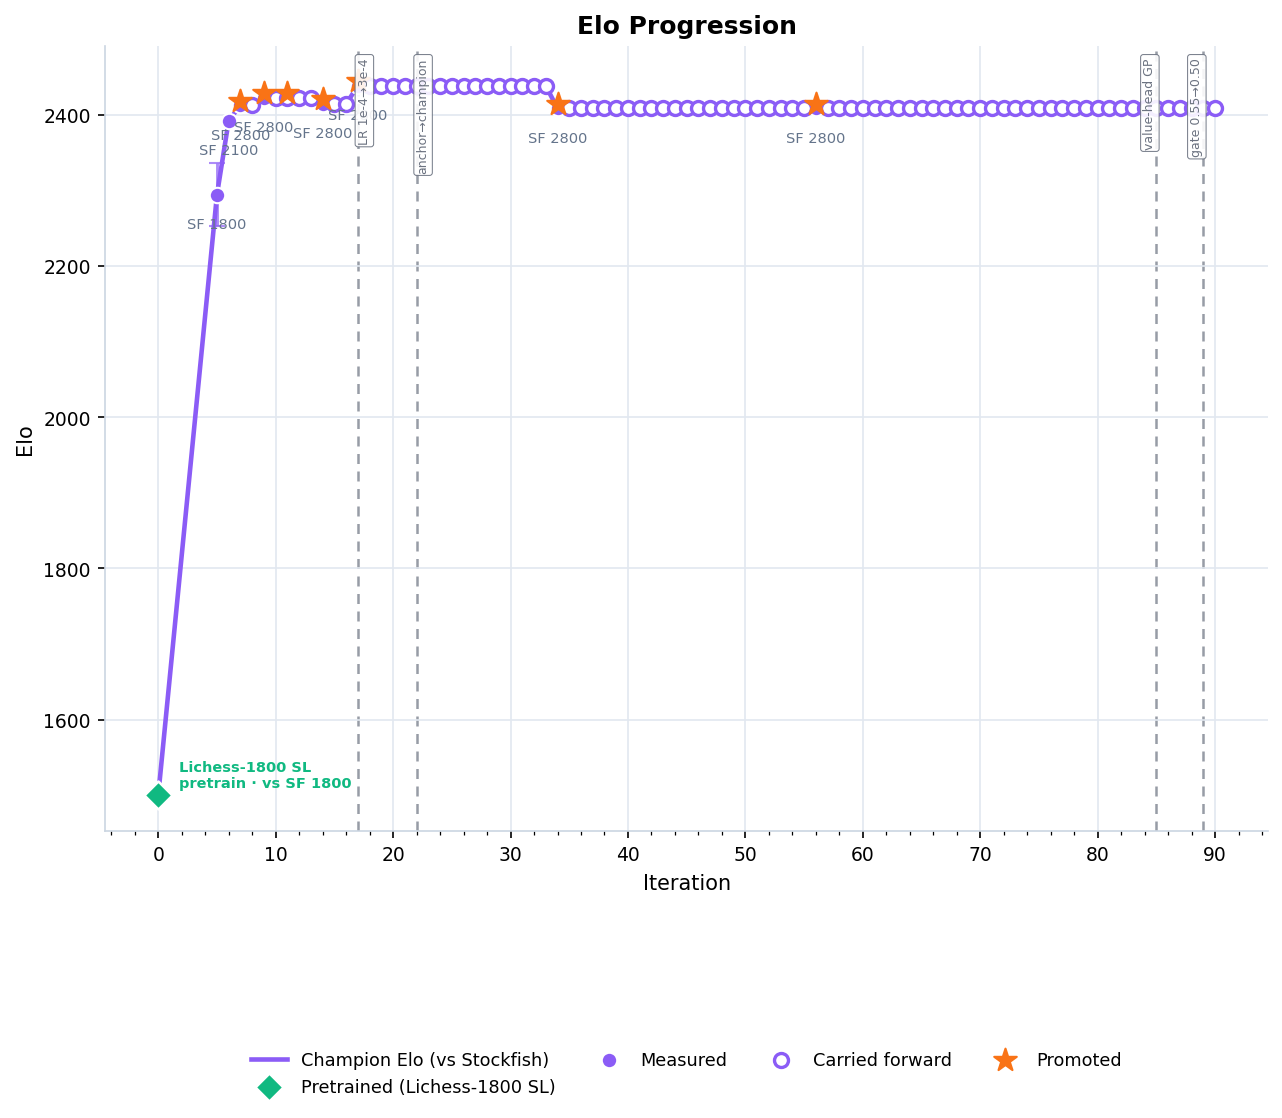
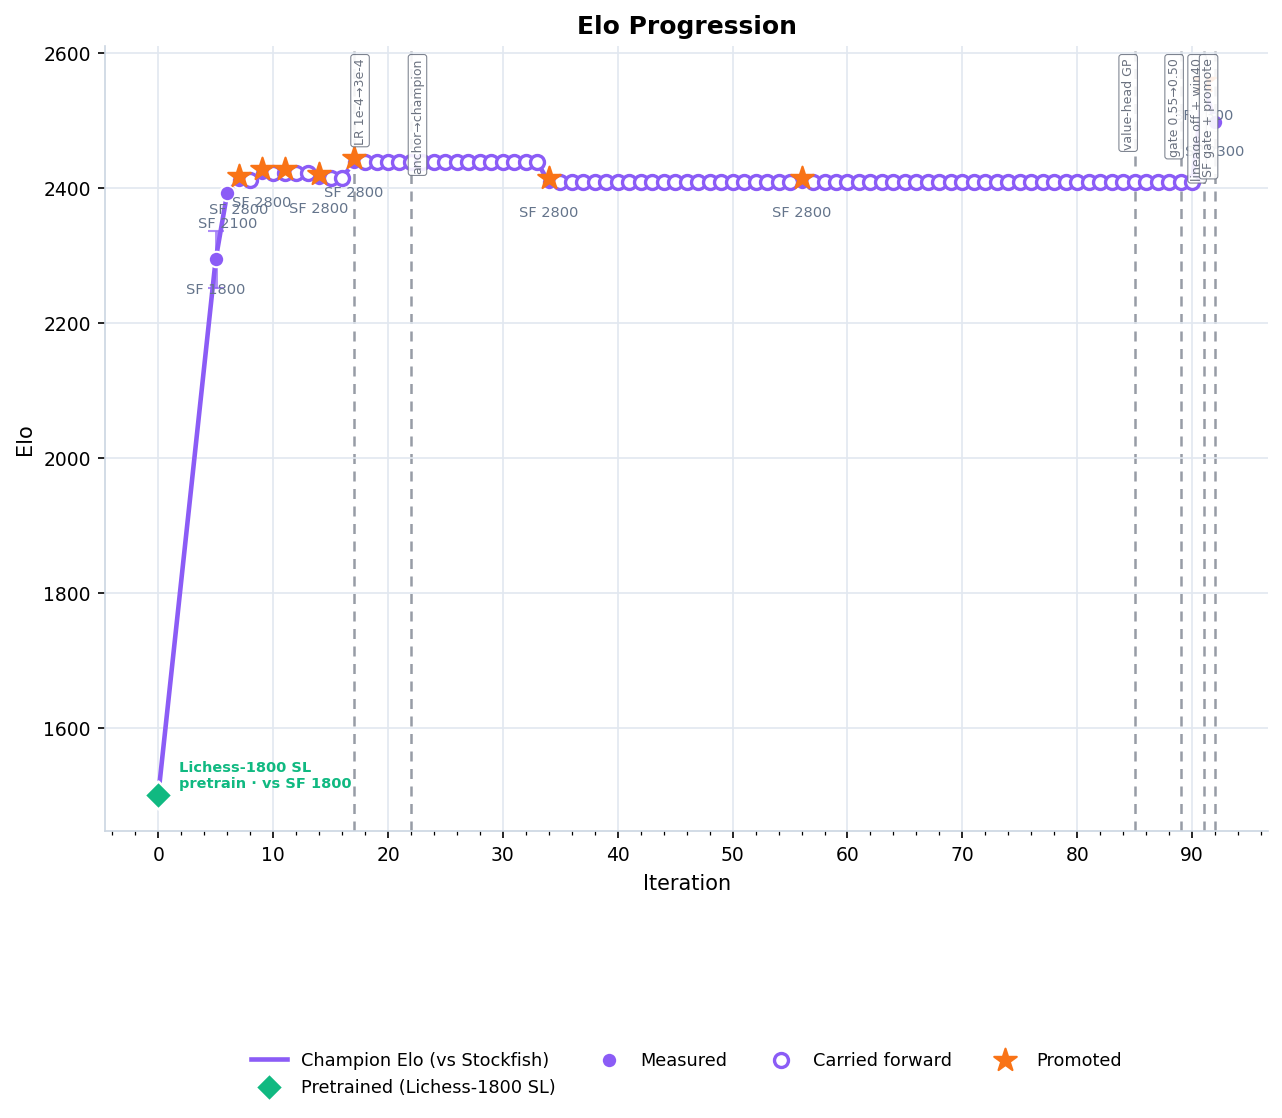
Plots update

diff --git a/chess_ai/plot_metrics.py b/chess_ai/plot_metrics.py
@@ -12,7 +12,10 @@ KataGo / RLHF literature:
     constraint plot; here it shows the policy staying pinned to the pretrained prior.
   * The MCTS-vs-net search metrics (top1-agree / override / KL / Δentropy) form the
     AlphaZero "policy improvement from search" panel.
-  * A reward–KL frontier (arena win-rate vs anchor KL) — the classic RLHF tradeoff.
+
+The arena is no longer a gate (the Stockfish-anchored promotion gate replaced it — see
+main.py STOCKFISH_GATE), so arena win-rate / reward-KL panels were removed: Elo vs Stockfish
+is the sole progress metric, alongside the training and offline-probe panels.
 
 Outputs a master dashboard.png plus standalone high-DPI transparent panels.
 Run from chess_ai/ (paths resolve relative to this file regardless of cwd):
@@ -31,7 +34,6 @@ matplotlib.use("Agg")
 import matplotlib.pyplot as plt
 from matplotlib.gridspec import GridSpec
 from matplotlib.ticker import MultipleLocator
-from mpl_toolkits.axes_grid1.inset_locator import inset_axes
 
 # Paths anchored to this file so it works from repo root or chess_ai/.
 HERE = os.path.dirname(os.path.abspath(__file__))
@@ -53,7 +55,6 @@ def gate_for(iteration):
     return g
 
 
-PROMOTION_GATE = GATE_HISTORY[-1][1]  # latest gate — for reference lines on scatter panels
 DPI = 150
 # Supervised-pretrained base = iteration 0. Trained on Lichess human games (~1800),
 # measured ~1500 Elo vs Stockfish-1800 before any self-play. Loss values are read
@@ -190,7 +191,6 @@ def parse(history):
         "val_acc": col(history, "val_acc"),
         "kl_anchor": col(history, "kl_anchor"),
         "grad_norm": col(history, "grad_norm"),
-        "win_rate": col(history, "arena_win_rate"),
         "elo": col(history, "model_elo"),
         "elo_ci": col(history, "elo_ci"),
         "elo_measured": np.array([bool(h.get("elo_measured")) for h in history]),
@@ -338,25 +338,6 @@ def panel_acc(ax, H):
     _legend_below(ax, ncol=2)
 
 
-def panel_winrate(ax, H):
-    it, wr = H["it"], H["win_rate"]
-    m = ~np.isnan(wr)
-    colors = [C["value"] if p else C["reject"] for p in H["promoted"][m]]
-    ax.plot(it[m], wr[m], color=C["winrate"], lw=2.0, zorder=1)
-    ax.scatter(it[m], wr[m], c=colors, s=55, zorder=2, edgecolor="white", linewidth=1)
-    # Era-aware promotion gate: a stepped line (0.55 → 0.50 at the change) so the reference matches the
-    # gate that actually applied at each iteration, not a single flat value.
-    gate_lbl = ("Promotion gate" if len(GATE_HISTORY) == 1
-                else "Promotion gate (" + "→".join(f"{g:.2f}" for _, g in GATE_HISTORY) + ")")
-    ax.plot(it[m], np.array([gate_for(int(i)) for i in it[m]]), color=C["reject"], ls="--", lw=1.6,
-            drawstyle="steps-post", label=gate_lbl)
-    ax.set_ylim(0, 1)
-    ax.set_title("Arena Win Rate (candidate vs champion)")
-    ax.set_ylabel("Win rate")
-    _int_xaxis(ax, it, "winrate")
-    _legend_below(ax, ncol=1)
-
-
 def panel_kl(ax, H):
     it = H["it"]
     m = ~np.isnan(H["kl_anchor"])
@@ -418,48 +399,23 @@ def panel_grad(ax, H):
     _legend_below(ax, ncol=1)
 
 
-def panel_reward_kl(ax, H):
-    """Classic RLHF reward–KL frontier: how much arena gain we buy per nat of
-    drift from the reference policy, colored by iteration."""
-    x, y = H["kl_anchor"], H["win_rate"]
-    m = ~np.isnan(x) & ~np.isnan(y)
-    sc = ax.scatter(x[m], y[m], c=H["it"][m], cmap="viridis", s=70,
-                    edgecolor="white", linewidth=1, zorder=2)
-    for i in np.where(m)[0]:
-        ax.annotate(str(H["it"][i]), (x[i], y[i]), textcoords="offset points",
-                    xytext=(6, 4), fontsize=7, color="#475569")
-    # Points span both gate eras — draw a faint reference line for each distinct gate that applied.
-    for j, g in enumerate(sorted({v for _, v in GATE_HISTORY})):
-        ax.axhline(g, color=C["reject"], ls="--", lw=1.4, alpha=0.7 if j == 0 else 0.35)
-    ax.set_title("Reward–KL Frontier")
-    ax.set_xlabel("KL to reference (nats)")
-    ax.set_ylabel("Arena win rate")
-    # Inset colorbar so the axis stays the same size as its column siblings
-    # (an external colorbar would shrink this panel and break grid alignment).
-    cax = inset_axes(ax, width="3.5%", height="45%", loc="upper right", borderpad=1.2)
-    cax.grid(False)
-    cb = ax.figure.colorbar(sc, cax=cax)
-    cb.set_label("Iter", fontsize=7)
-    cb.ax.tick_params(labelsize=7)
-
-
 # ----------------------------------------------------------------------------
 # Composition
 # ----------------------------------------------------------------------------
 
 def build_dashboard(H):
+    # Elo is the sole progress metric (arena panels removed) → it headlines the top row
+    # spanning the full width; the training + probe panels fill the two rows below.
     fig = plt.figure(figsize=(24, 20), dpi=DPI)
     gs = GridSpec(3, 3, figure=fig, hspace=0.78, wspace=0.34,
                   left=0.05, right=0.97, top=0.93, bottom=0.04)
-    panel_elo(fig.add_subplot(gs[0, 0]), H)
-    panel_loss(fig.add_subplot(gs[0, 1]), H, "policy")
-    panel_loss(fig.add_subplot(gs[0, 2]), H, "value")
-    panel_acc(fig.add_subplot(gs[1, 0]), H)
-    panel_winrate(fig.add_subplot(gs[1, 1]), H)
-    panel_kl(fig.add_subplot(gs[1, 2]), H)
-    panel_search(fig.add_subplot(gs[2, 0]), H)
-    panel_value_calib(fig.add_subplot(gs[2, 1]), H)
-    panel_reward_kl(fig.add_subplot(gs[2, 2]), H)
+    panel_elo(fig.add_subplot(gs[0, :]), H)
+    panel_loss(fig.add_subplot(gs[1, 0]), H, "policy")
+    panel_loss(fig.add_subplot(gs[1, 1]), H, "value")
+    panel_acc(fig.add_subplot(gs[1, 2]), H)
+    panel_kl(fig.add_subplot(gs[2, 0]), H)
+    panel_search(fig.add_subplot(gs[2, 1]), H)
+    panel_value_calib(fig.add_subplot(gs[2, 2]), H)
 
     # Headline + footer.
     elo_now = H["elo"][~np.isnan(H["elo"])]
@@ -502,18 +458,17 @@ def main():
     print(f"Plotting {len(history)} iterations ({H['it'][0]}–{H['it'][-1]})...")
     build_dashboard(H)
 
-    # Standalone panels. The first four names match the legacy outputs so any
-    # downstream embeds keep working; the rest are the new analytical panels.
+    # Standalone panels. Elo is the headline progress metric; the rest are the
+    # training + offline-probe panels. (Arena win-rate / reward-KL removed — the
+    # Stockfish-anchored gate replaced the arena.)
+    save_panel("elo_rating.png", panel_elo, H)
     save_panel("policy_loss.png", lambda ax, h: panel_loss(ax, h, "policy"), H)
     save_panel("validation_loss.png", lambda ax, h: panel_loss(ax, h, "value"), H)
-    save_panel("candidate_winrate.png", panel_winrate, H)
-    save_panel("elo_rating.png", panel_elo, H)
     save_panel("accuracy.png", panel_acc, H)
     save_panel("kl_anchor.png", panel_kl, H)
     save_panel("search_improvement.png", panel_search, H)
     save_panel("value_calibration.png", panel_value_calib, H)
     save_panel("grad_norm.png", panel_grad, H)
-    save_panel("reward_kl_frontier.png", panel_reward_kl, H)
 
     print("\nDone.")
 

diff --git a/chess_ai/game_engine/main.py b/chess_ai/game_engine/main.py
@@ -129,30 +129,37 @@ def get_start_iteration(data_dir):
 # at the NEXT phase of the same iteration.
 _PHASES = ("self_play", "training", "eval")
 
-def save_phase(iteration, phase):
+def save_phase(iteration, phase, extra=None):
     os.makedirs(DATA_DIR, exist_ok=True)
+    state = {"iteration": iteration, "phase": phase}
+    if extra:
+        state.update(extra)   # e.g. training losses, so a resume-into-eval keeps them (not 0.0)
     tmp = RUN_STATE_FILE + ".tmp"
     with open(tmp, "w") as f:
-        json.dump({"iteration": iteration, "phase": phase}, f)
+        # default= coerces numpy/torch scalars in train_metrics to plain numbers for JSON.
+        json.dump(state, f, default=lambda o: o.item() if hasattr(o, "item") else str(o))
     os.replace(tmp, RUN_STATE_FILE)  # atomic write
 
 def load_resume_point():
-    """Return (start_iteration, start_phase) where start_phase is 1=self-play, 2=training,
-    3=eval — the phase the FIRST iteration of this run should begin at. Falls back to the
-    data-dir scan (fresh self-play of the next iteration) when no phase checkpoint exists."""
+    """Return (start_iteration, start_phase, extra) where start_phase is 1=self-play, 2=training,
+    3=eval — the phase the FIRST iteration of this run should begin at — and extra is any non-phase
+    payload persisted with the checkpoint (e.g. the training losses, so a resume-into-eval logs the
+    real numbers instead of 0.0). Falls back to the data-dir scan (fresh self-play of the next
+    iteration) when no phase checkpoint exists."""
     data_iter = get_start_iteration(DATA_DIR)
     if not os.path.exists(RUN_STATE_FILE):
-        return data_iter, 1
+        return data_iter, 1, {}
     try:
         with open(RUN_STATE_FILE) as f:
             st = json.load(f)
         it = int(st["iteration"])
         done = _PHASES.index(st["phase"]) + 1          # phases completed so far
+        extra = {k: v for k, v in st.items() if k not in ("iteration", "phase")}
         if done >= len(_PHASES):
-            return it + 1, 1                           # whole iteration done → next, fresh
-        return it, done + 1                            # resume at the phase after the last done
+            return it + 1, 1, {}                       # whole iteration done → next, fresh
+        return it, done + 1, extra                     # resume at the phase after the last done
     except Exception:
-        return data_iter, 1
+        return data_iter, 1, {}
 
 def cleanup_memory():
     """Forces garbage collection and clears CUDA cache to prevent OOM"""
@@ -1595,7 +1602,7 @@ if __name__ == "__main__":
     print(f"⏱ Deadlock timeout: {timeout_handler.timeout_seconds/3600:.0f}h per iteration")
 
     # RESUMPTION LOGIC
-    start_iter, start_phase = load_resume_point()
+    start_iter, start_phase, resume_extra = load_resume_point()
 
     print("=" * 60)
     print(f"STARTING RUN")
@@ -1624,6 +1631,12 @@ if __name__ == "__main__":
             resume_phase = start_phase if it == start_iter else 1
             p_loss, v_loss = 0.0, 0.0
             train_metrics = {}
+            # Resume-into-eval: recover the training losses persisted by the pre-restart training
+            # phase so the metrics record isn't logged with zeros (see save_phase extra=).
+            if it == start_iter and resume_phase == 3 and resume_extra:
+                p_loss = float(resume_extra.get("p_loss") or 0.0)
+                v_loss = float(resume_extra.get("v_loss") or 0.0)
+                train_metrics = resume_extra.get("train_metrics") or {}
 
             # === PHASE 1: SELF-PLAY ===
             if resume_phase <= 1:
@@ -1678,7 +1691,10 @@ if __name__ == "__main__":
                         break
                     raise
                 print(f"⏱  ITER {it} training took {_phase_dur(time.time() - _t_phase)}")
-                save_phase(it, "training")
+                # Persist the losses with the phase checkpoint so a restart that resumes directly
+                # into eval logs the REAL training losses (not the 0.0 defaults).
+                save_phase(it, "training", extra={"p_loss": p_loss, "v_loss": v_loss,
+                                                  "train_metrics": train_metrics})
 
             # CHECK AFTER PHASE 2
             if killer.kill_now:
